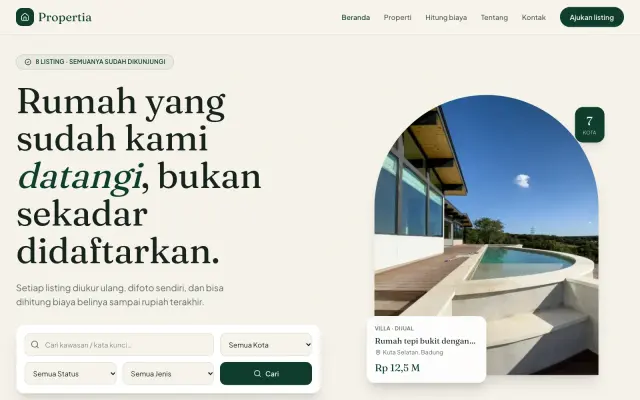
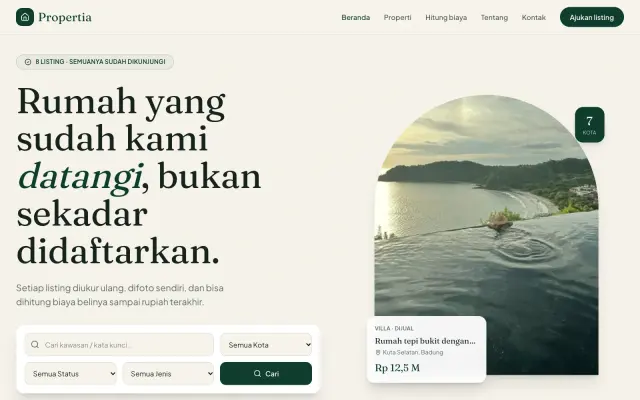
Galeri lain + Toko Online & Menu Digital, tautan lompat rapi, 4 pratinjau baru
- Galeri "Lanjut di PintuWeb": Toko Online dan Menu Digital ditambahkan
  setelah Aplikasi To-Do (urutan sama dengan portal toko & menu); komentar
  "Delapan galeri" dibuat netral.
- Tautan "Lewati ke konten" digeser setinggi dirinya + 2rem ke atas layar dan
  baru berbayangan saat difokus: tepinya tidak lagi mengintip di tepi atas,
  Tab pertama tetap memunculkannya.
- 4 pratinjau ditangkap ulang dari demo live 22 Okt 2026, bingkai sama:
  beranda 1280x800 @1,25 (1600x1000), mode terang; Lumora dimuat ulang
  supaya carousel di slide pertama. Foto properti baru tiap demo ikut tampil.
  Varian 320-1280 dibuat ulang dengan scripts/gambar-varian.mjs.

Changed region(s): [[0.5625, 0.21, 0.9375, 0.96]]

diff --git a/app/globals.css b/app/globals.css
@@ -22,13 +22,14 @@ body {
 
 h1, h2, h3 { font-family: var(--font-display); letter-spacing: -0.03em; }
 
-/* Tautan lompat ke konten: tersembunyi sampai difokus papan ketik */
+/* Tautan lompat ke konten: tersembunyi sampai difokus papan ketik. Digeser jauh di atas layar dan tanpa bayangan
+   sampai difokus, jadi tepinya tidak mengintip di tepi atas. */
 .lewati {
-  position: fixed; left: 1rem; top: 0.75rem; z-index: 60; transform: translateY(-160%);
+  position: fixed; left: 1rem; top: 0.75rem; z-index: 60; transform: translateY(calc(-100% - 2rem));
   border-radius: 9999px; background: var(--color-zamrud); color: #fff;
-  padding: 0.5rem 1rem; font-weight: 800; font-size: 0.875rem; box-shadow: 0 8px 20px -8px rgba(4, 120, 87, 0.6);
+  padding: 0.5rem 1rem; font-weight: 800; font-size: 0.875rem;
 }
-.lewati:focus { transform: none; }
+.lewati:focus { transform: none; box-shadow: 0 8px 20px -8px rgba(4, 120, 87, 0.6); }
 main:focus { outline: none; }
 
 /* Kartu berbentuk rumah (atap segitiga) */

diff --git a/app/components/pintuweb.js b/app/components/pintuweb.js
@@ -24,7 +24,7 @@ export const PAKET_MARKETPLACE = {
   waktu: '2–4 minggu',
 };
 
-/** Delapan galeri yang tayang di www.pintuweb.id/<path> (lihat lib/portals.ts di PintuWeb). */
+/** Galeri yang tayang di www.pintuweb.id/<path> (lihat lib/portals.ts di PintuWeb). */
 export const GALERI = [
   { path: 'landing-page', label: 'Landing Page' },
   { path: 'link-in-bio', label: 'Link in Bio' },
@@ -34,6 +34,8 @@ export const GALERI = [
   { path: 'website-reservasi', label: 'Website Reservasi' },
   { path: 'website-properti', label: 'Website Properti' },
   { path: 'aplikasi-to-do', label: 'Aplikasi To-Do' },
+  { path: 'toko-online', label: 'Toko Online' },
+  { path: 'menu-digital', label: 'Menu Digital' },
 ];
 
 export const GALERI_LAIN = GALERI.filter((g) => g.path !== 'website-properti');
